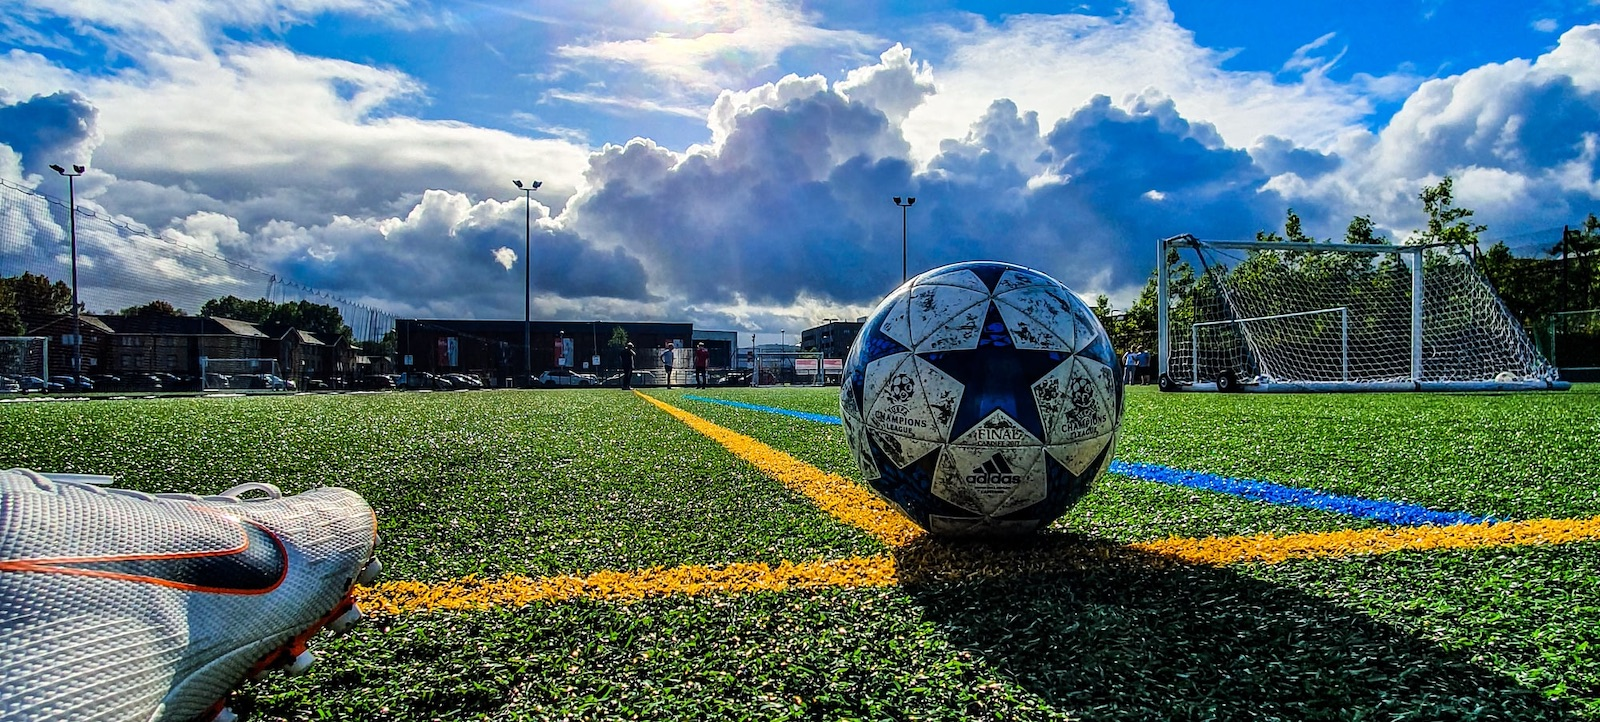
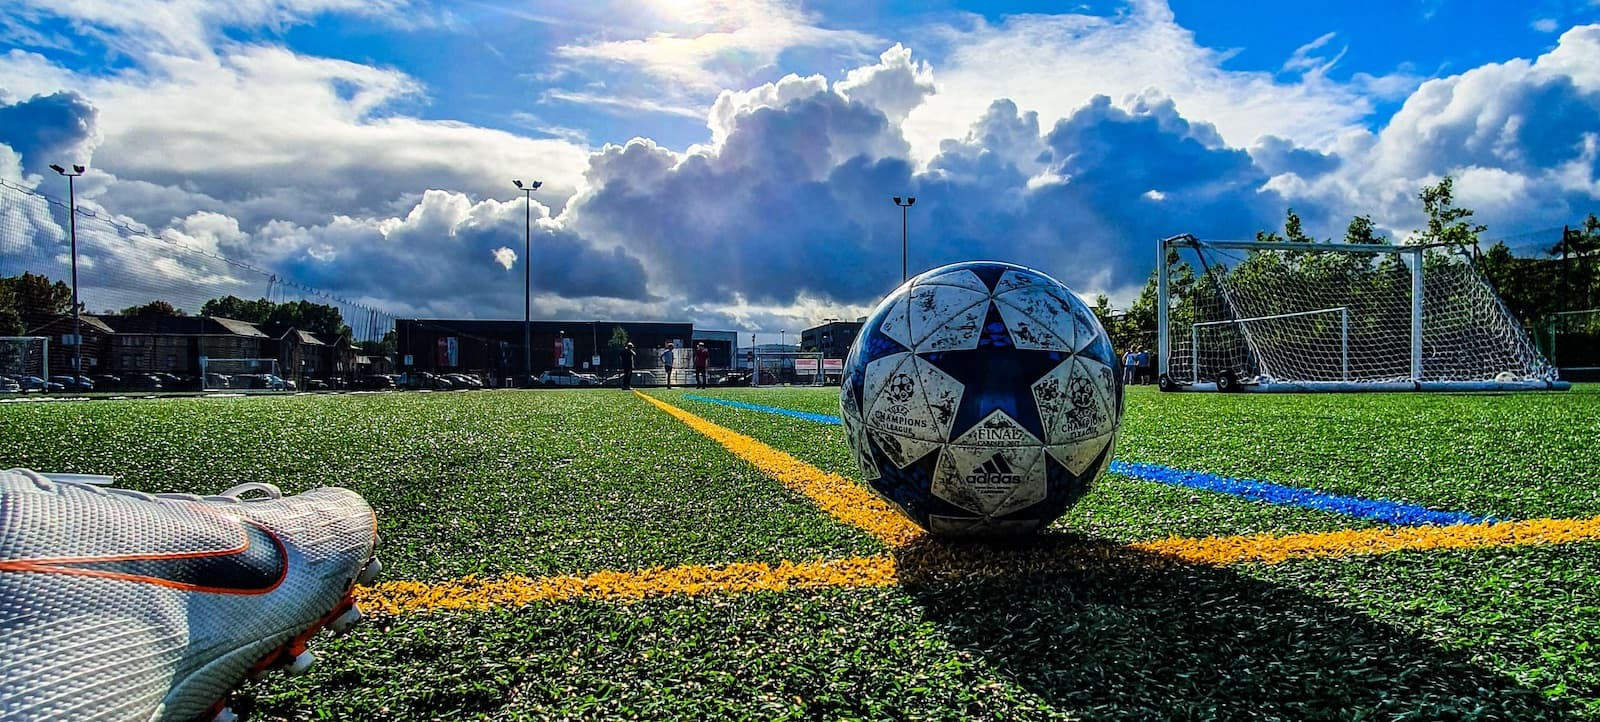
update images size.

diff --git a/_includes/head.html b/_includes/head.html
@@ -21,8 +21,8 @@
     }
   </script>
 
-  <link rel="stylesheet" href="{{ '/assets/css/style.css' | relative_url }}">
-  <link rel="shortcut icon" type="image/vnd.microsoft.icon" href="/assets/favicon.ico">
+  <link rel="stylesheet" href="{{ 'assets/css/style.css' | relative_url }}">
+  <link rel="shortcut icon" type="image/vnd.microsoft.icon" href="{{ 'assets/favicon.ico' | relative_url }}">
   {% if site.data.theme.google_fonts %}
     <link rel="stylesheet" href="https://fonts.googleapis.com/css?family={% for font in site.data.theme.google_fonts %}{{ font.name | replace: ' ', '+' }}{% if font.weights %}:{% endif %}{{ font.weights | remove: ' ' }}{% if forloop.last != true %}|{% endif %}{% endfor %}">
   {% endif %}
